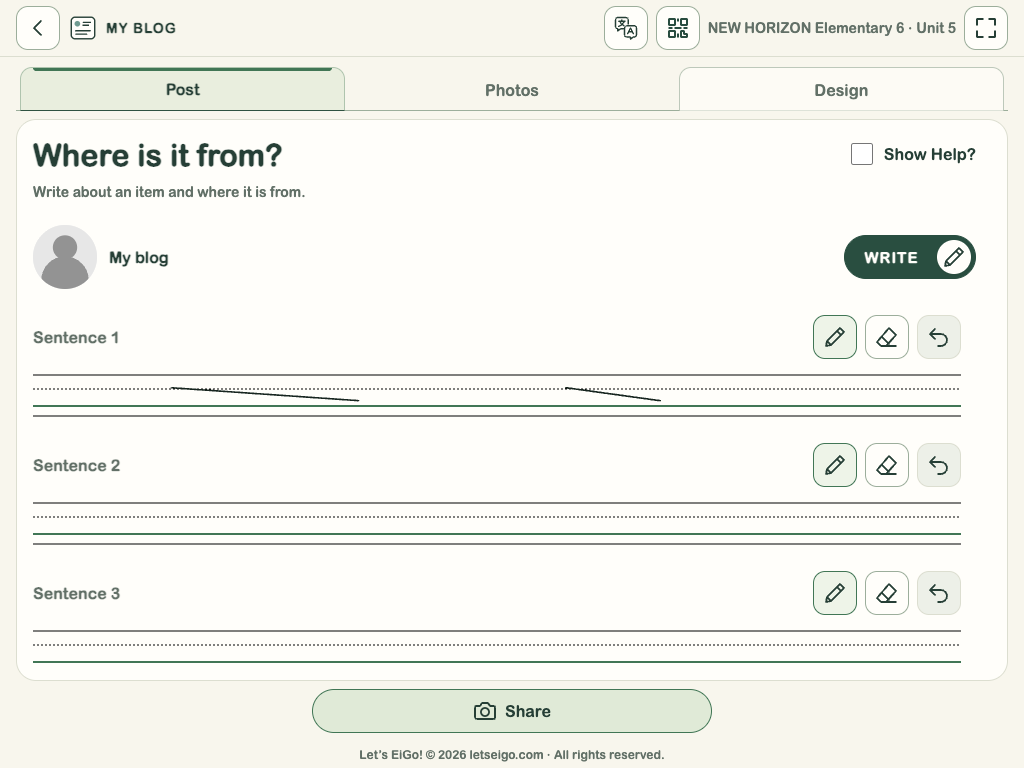
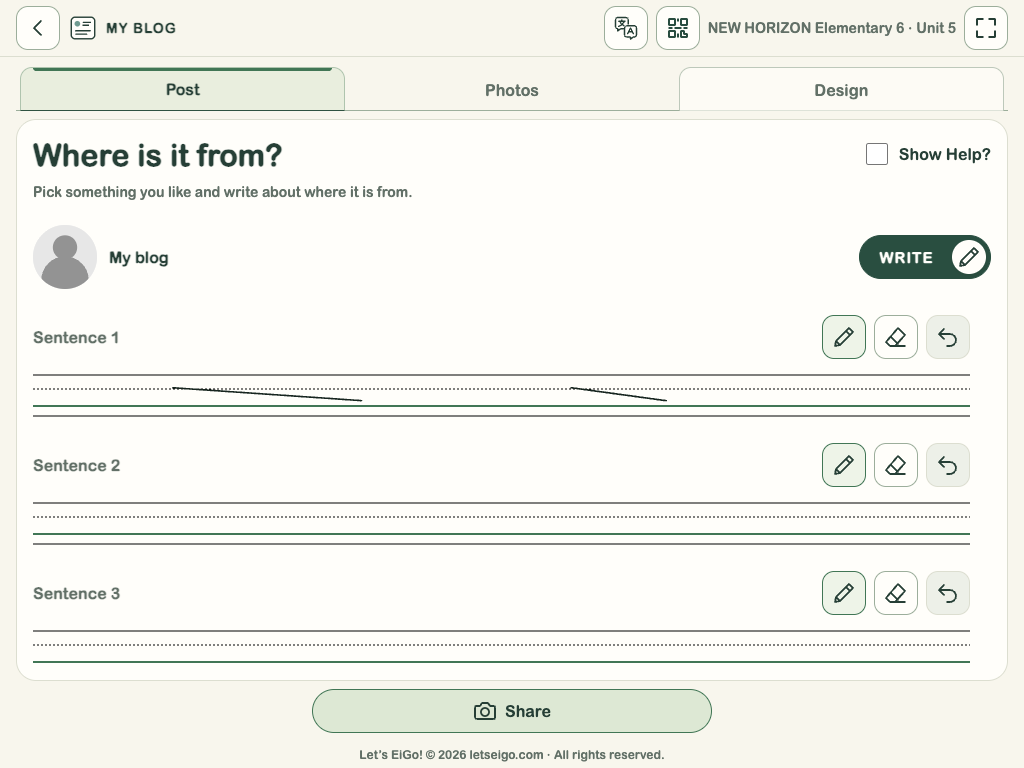
My Blog ES version WRITE mode update

diff --git a/myblog/journal/index.html b/myblog/journal/index.html
@@ -1,1 +1,1 @@
-<!doctype html><html lang="en"><head><meta charset="utf-8"><meta name="viewport" content="width=device-width,initial-scale=1"><title>My Blog Journal · Let’s EiGo!</title><link rel="icon" href="../NH1-5/icon.svg?v=45b85344694d"><link rel="apple-touch-icon" href="../../shared/icons/apple-touch-icon.png"><link rel="manifest" href="manifest.webmanifest"><link rel="stylesheet" href="../../shared/tokens.css?v=bb1399727204"><link rel="stylesheet" href="../../shared/blog-post.css?v=fa172151baad"><link rel="stylesheet" href="../../shared/controls.css?v=e8438a370acd"><link rel="stylesheet" href="styles.css?v=3fa481c05e5c"><script defer src="../../shared/i18n.js?v=dfcdbf06d2f6"></script><script defer src="../../shared/ui-ja.js?v=cfca4e1590d7"></script><script defer src="ui-ja.js?v=66c3bb4f994f"></script><script defer src="../../shared/autosave.js?v=87b0fd20cb77"></script><script defer src="../../apps/avatar/config.js?v=fab86059b694"></script><script defer src="../../apps/avatar/svg-parts.js?v=8105363c261c"></script><script defer src="../../apps/avatar/svg-art.js?v=36a3dbbb9d7c"></script><script defer src="../../shared/fullscreen.js?v=d346e549d687"></script><script defer src="../../shared/copyright.js?v=c854605170d6"></script><script defer src="../../shared/language-dialog.js?v=3104c801fc43"></script><script defer src="../../shared/local-links.js?v=0040b3f45d65"></script><script defer src="../../shared/blog-layout.js?v=19a691abb8c7"></script><script defer src="../../shared/blog-ink.js?v=be584c1a42bc"></script><script defer src="../../shared/blog-post.js?v=eab62f6c58dd"></script><script defer src="../../shared/blog-snapshot.js?v=f2931ecc996a"></script><script defer src="../NH6-5/config.js?v=9939a01664d5"></script><script defer src="../NH1-5/config.js?v=a46ce28265ba"></script><script defer src="../NH2-4/config.js?v=5845262db72d"></script><script defer src="catalog.js?v=1056bcd4d390"></script><script defer src="app.js?v=3f1731d49442"></script></head><body class="ah-blog journal"><header><div class="brand"><a class="icon-button back-button ah-button ah-button-icon" href="../../" aria-label="Back to textbook activities" data-i18n-aria-label="Back to textbook activities" title="Back to textbook activities" data-i18n-title="Back to textbook activities"><svg viewBox="0 0 24 24" aria-hidden="true"><path d="M15 5L8 12L15 19"/></svg></a><img class="site-logo" src="../NH1-5/icon.svg?v=45b85344694d" width="30" height="30" alt=""> <span lang="en">MY JOURNAL</span></div><div class="header-actions"><button id="language" class="icon-button ah-button ah-button-icon" type="button" aria-label="Language settings" data-i18n-aria-label="Language settings" title="Language settings" data-i18n-title="Language settings"><img src="../../shared/icons/language.svg?v=dffd4d6da96f" alt="" aria-hidden="true"></button><span class="edition" lang="en">My Blog collection</span><button id="fullscreen" class="fullscreen-button ah-button ah-button-icon" type="button" aria-label="Enter fullscreen" data-i18n-aria-label="Enter fullscreen" aria-pressed="false" title="Enter fullscreen" data-i18n-title="Enter fullscreen"><svg viewBox="0 0 24 24" width="24" height="24" fill="none" stroke="currentColor" stroke-width="1.8" stroke-linecap="round" stroke-linejoin="round" aria-hidden="true"><path class="expand-icon" d="M9 3H3V9M15 3H21V9M3 15V21H9M21 15V21H15"/><path class="collapse-icon" d="M3 9H9V3M15 3V9H21M9 21V15H3M21 15H15V21"/></svg></button></div><p id="fullscreen-notice" role="status" hidden></p></header><main class="journal-workspace"><div class="journal-intro"><div><h1 data-i18n="My journal">My journal</h1><p data-i18n="Your latest blog entries, together in one book.">Your latest blog entries, together in one book.</p></div><span class="prototype" data-i18n="Prototype">Prototype</span></div><div class="journal-columns"><nav class="journal-contents" aria-label="Journal contents" data-i18n-aria-label="Journal contents"><h2 data-i18n="Contents">Contents</h2><div id="journal-list"></div><p class="blog-hint" data-i18n="Saved in this browser only. Each page shows the latest draft for that lesson.">Saved in this browser only. Each page shows the latest draft for that lesson.</p></nav><section class="journal-reader" aria-labelledby="entry-heading"><div class="reader-heading"><div><p id="entry-unit"></p><h2 id="entry-heading" lang="en"></h2></div><a id="edit-entry" class="ah-button" data-i18n="Open activity">Open activity</a></div><div id="journal-page" tabindex="0" role="region" aria-label="Journal page" data-i18n-aria-label="Journal page"><p id="page-status" role="status"></p><div id="empty-page" hidden><img src="../../shared/icons/profile-default.svg?v=90333e0a71f1" alt=""><h3 data-i18n="Your story goes here">Your story goes here</h3><p data-i18n="This page is waiting for your blog post. Open the activity to get started.">This page is waiting for your blog post. Open the activity to get started.</p></div><img id="entry-image" hidden alt=""><details id="entry-text" hidden><summary data-i18n="Read as text">Read as text</summary><div lang="en" id="entry-paragraphs"></div></details></div><div class="journal-pagination"><button id="previous-entry" class="ah-button" data-i18n="Previous">Previous</button><span id="page-number" aria-live="polite"></span><button id="next-entry" class="ah-button" data-i18n="Next">Next</button></div></section></div></main><dialog class="ah-dialog" id="language-dialog" aria-labelledby="language-title"><div class="dialog-heading"><h2 id="language-title"><span data-i18n="Language">Language</span></h2><button class="dialog-close icon-button ah-button ah-button-icon" type="button" aria-label="Close language settings" data-i18n-aria-label="Close language settings">×</button></div><div class="language-options"><button type="button" class="ah-button" data-language="en" lang="en" aria-pressed="true">English</button><button type="button" class="ah-button" data-language="ja" lang="ja" aria-pressed="false">日本語</button></div><p data-i18n="English practice words and sentences stay in English.">English practice words and sentences stay in English.</p></dialog></body></html>
+<!doctype html><html lang="en"><head><meta charset="utf-8"><meta name="viewport" content="width=device-width,initial-scale=1"><title>My Blog Journal · Let’s EiGo!</title><link rel="icon" href="../NH1-5/icon.svg?v=45b85344694d"><link rel="apple-touch-icon" href="../../shared/icons/apple-touch-icon.png"><link rel="manifest" href="manifest.webmanifest"><link rel="stylesheet" href="../../shared/tokens.css?v=bb1399727204"><link rel="stylesheet" href="../../shared/blog-post.css?v=fa172151baad"><link rel="stylesheet" href="../../shared/controls.css?v=e8438a370acd"><link rel="stylesheet" href="styles.css?v=3fa481c05e5c"><script defer src="../../shared/i18n.js?v=dfcdbf06d2f6"></script><script defer src="../../shared/ui-ja.js?v=cfca4e1590d7"></script><script defer src="ui-ja.js?v=66c3bb4f994f"></script><script defer src="../../shared/autosave.js?v=87b0fd20cb77"></script><script defer src="../../apps/avatar/config.js?v=fab86059b694"></script><script defer src="../../apps/avatar/svg-parts.js?v=8105363c261c"></script><script defer src="../../apps/avatar/svg-art.js?v=36a3dbbb9d7c"></script><script defer src="../../shared/fullscreen.js?v=d346e549d687"></script><script defer src="../../shared/copyright.js?v=c854605170d6"></script><script defer src="../../shared/language-dialog.js?v=3104c801fc43"></script><script defer src="../../shared/local-links.js?v=0040b3f45d65"></script><script defer src="../../shared/blog-layout.js?v=19a691abb8c7"></script><script defer src="../../shared/blog-ink.js?v=cf3337f99a6f"></script><script defer src="../../shared/blog-post.js?v=eab62f6c58dd"></script><script defer src="../../shared/blog-snapshot.js?v=f2931ecc996a"></script><script defer src="../NH6-5/config.js?v=9939a01664d5"></script><script defer src="../NH1-5/config.js?v=a46ce28265ba"></script><script defer src="../NH2-4/config.js?v=5845262db72d"></script><script defer src="catalog.js?v=1056bcd4d390"></script><script defer src="app.js?v=3f1731d49442"></script></head><body class="ah-blog journal"><header><div class="brand"><a class="icon-button back-button ah-button ah-button-icon" href="../../" aria-label="Back to textbook activities" data-i18n-aria-label="Back to textbook activities" title="Back to textbook activities" data-i18n-title="Back to textbook activities"><svg viewBox="0 0 24 24" aria-hidden="true"><path d="M15 5L8 12L15 19"/></svg></a><img class="site-logo" src="../NH1-5/icon.svg?v=45b85344694d" width="30" height="30" alt=""> <span lang="en">MY JOURNAL</span></div><div class="header-actions"><button id="language" class="icon-button ah-button ah-button-icon" type="button" aria-label="Language settings" data-i18n-aria-label="Language settings" title="Language settings" data-i18n-title="Language settings"><img src="../../shared/icons/language.svg?v=dffd4d6da96f" alt="" aria-hidden="true"></button><span class="edition" lang="en">My Blog collection</span><button id="fullscreen" class="fullscreen-button ah-button ah-button-icon" type="button" aria-label="Enter fullscreen" data-i18n-aria-label="Enter fullscreen" aria-pressed="false" title="Enter fullscreen" data-i18n-title="Enter fullscreen"><svg viewBox="0 0 24 24" width="24" height="24" fill="none" stroke="currentColor" stroke-width="1.8" stroke-linecap="round" stroke-linejoin="round" aria-hidden="true"><path class="expand-icon" d="M9 3H3V9M15 3H21V9M3 15V21H9M21 15V21H15"/><path class="collapse-icon" d="M3 9H9V3M15 3V9H21M9 21V15H3M21 15H15V21"/></svg></button></div><p id="fullscreen-notice" role="status" hidden></p></header><main class="journal-workspace"><div class="journal-intro"><div><h1 data-i18n="My journal">My journal</h1><p data-i18n="Your latest blog entries, together in one book.">Your latest blog entries, together in one book.</p></div><span class="prototype" data-i18n="Prototype">Prototype</span></div><div class="journal-columns"><nav class="journal-contents" aria-label="Journal contents" data-i18n-aria-label="Journal contents"><h2 data-i18n="Contents">Contents</h2><div id="journal-list"></div><p class="blog-hint" data-i18n="Saved in this browser only. Each page shows the latest draft for that lesson.">Saved in this browser only. Each page shows the latest draft for that lesson.</p></nav><section class="journal-reader" aria-labelledby="entry-heading"><div class="reader-heading"><div><p id="entry-unit"></p><h2 id="entry-heading" lang="en"></h2></div><a id="edit-entry" class="ah-button" data-i18n="Open activity">Open activity</a></div><div id="journal-page" tabindex="0" role="region" aria-label="Journal page" data-i18n-aria-label="Journal page"><p id="page-status" role="status"></p><div id="empty-page" hidden><img src="../../shared/icons/profile-default.svg?v=90333e0a71f1" alt=""><h3 data-i18n="Your story goes here">Your story goes here</h3><p data-i18n="This page is waiting for your blog post. Open the activity to get started.">This page is waiting for your blog post. Open the activity to get started.</p></div><img id="entry-image" hidden alt=""><details id="entry-text" hidden><summary data-i18n="Read as text">Read as text</summary><div lang="en" id="entry-paragraphs"></div></details></div><div class="journal-pagination"><button id="previous-entry" class="ah-button" data-i18n="Previous">Previous</button><span id="page-number" aria-live="polite"></span><button id="next-entry" class="ah-button" data-i18n="Next">Next</button></div></section></div></main><dialog class="ah-dialog" id="language-dialog" aria-labelledby="language-title"><div class="dialog-heading"><h2 id="language-title"><span data-i18n="Language">Language</span></h2><button class="dialog-close icon-button ah-button ah-button-icon" type="button" aria-label="Close language settings" data-i18n-aria-label="Close language settings">×</button></div><div class="language-options"><button type="button" class="ah-button" data-language="en" lang="en" aria-pressed="true">English</button><button type="button" class="ah-button" data-language="ja" lang="ja" aria-pressed="false">日本語</button></div><p data-i18n="English practice words and sentences stay in English.">English practice words and sentences stay in English.</p></dialog></body></html>

diff --git a/myblog/NH6-5/index.html b/myblog/NH6-5/index.html
@@ -1,4 +1,4 @@
-<!doctype html><html lang="en"><head><meta charset="utf-8"><meta name="viewport" content="width=device-width,initial-scale=1"><title>My Blog: Where is it from? · Let’s EiGo!</title><link rel="icon" href="icon.svg?v=45b85344694d"><link rel="apple-touch-icon" href="../../shared/icons/apple-touch-icon.png"><link rel="manifest" href="manifest.webmanifest"><link rel="stylesheet" href="../../shared/tokens.css?v=bb1399727204"><link rel="stylesheet" href="../../shared/blog-post.css?v=fa172151baad"><link rel="stylesheet" href="../../shared/controls.css?v=e8438a370acd"><link rel="stylesheet" href="../../shared/blog-design.css?v=d6cd49c27a55"><link rel="stylesheet" href="../../shared/page-qr.css?v=a68fbbb331bb"><script defer src="../../shared/i18n.js?v=dfcdbf06d2f6"></script><script defer src="../../shared/ui-ja.js?v=cfca4e1590d7"></script><script defer src="ui-ja.js?v=6499b134f3b4"></script><script defer src="../../shared/autosave.js?v=87b0fd20cb77"></script><script defer src="../../apps/avatar/config.js?v=fab86059b694"></script><script defer src="../../apps/avatar/svg-parts.js?v=8105363c261c"></script><script defer src="../../apps/avatar/svg-art.js?v=36a3dbbb9d7c"></script><script defer src="../../shared/fullscreen.js?v=d346e549d687"></script><script defer src="../../shared/copyright.js?v=c854605170d6"></script><script defer src="../../shared/language-dialog.js?v=3104c801fc43"></script><script defer src="../../shared/local-links.js?v=0040b3f45d65"></script><script defer src="../../shared/qr.js?v=0fca292feadc"></script><script defer src="../../shared/builder-photo.js?v=e8111d64f6e3"></script><script defer src="../../shared/blog-snapshot.js?v=f2931ecc996a"></script><script defer src="../../shared/blog-layout.js?v=19a691abb8c7"></script><script defer src="../../shared/blog-design.js?v=69b0278f5a11"></script><script defer src="../../shared/blog-ink.js?v=be584c1a42bc"></script><script defer src="../../shared/blog-post.js?v=eab62f6c58dd"></script><script defer src="config.js?v=9939a01664d5"></script><script defer src="app.js?v=21fe25c4a731"></script><script defer src="../../shared/page-qr.js?v=c9dcd70ca280" data-app-path="/myblog/NH6-5/"></script></head><body class="ah-blog blog-guided blog-three"><header><div class="brand"><a class="icon-button back-button ah-button ah-button-icon" href="../../#new-horizon-6" aria-label="Back to textbook activities" data-i18n-aria-label="Back to textbook activities" title="Back to textbook activities" data-i18n-title="Back to textbook activities"><svg viewBox="0 0 24 24" aria-hidden="true"><path d="M15 5L8 12L15 19"/></svg></a><img class="site-logo" src="icon.svg?v=45b85344694d" width="30" height="30" alt=""> <span lang="en">MY BLOG</span></div><div class="header-actions"><button id="language" class="icon-button ah-button ah-button-icon" type="button" aria-label="Language settings" data-i18n-aria-label="Language settings" title="Language settings" data-i18n-title="Language settings"><img src="../../shared/icons/language.svg?v=dffd4d6da96f" alt="" aria-hidden="true"></button><span class="edition" lang="en">NEW HORIZON Elementary 6 · Unit 5</span><button id="fullscreen" class="fullscreen-button ah-button ah-button-icon" type="button" aria-label="Enter fullscreen" data-i18n-aria-label="Enter fullscreen" aria-pressed="false" title="Enter fullscreen" data-i18n-title="Enter fullscreen"><svg viewBox="0 0 24 24" width="24" height="24" fill="none" stroke="currentColor" stroke-width="1.8" stroke-linecap="round" stroke-linejoin="round" aria-hidden="true"><path class="expand-icon" d="M9 3H3V9M15 3H21V9M3 15V21H9M21 15V21H15"/><path class="collapse-icon" d="M3 9H9V3M15 3V9H21M9 21V15H3M21 15H15V21"/></svg></button></div><p id="fullscreen-notice" role="status" hidden></p></header><main class="blog-workspace" data-view="preview">
+<!doctype html><html lang="en"><head><meta charset="utf-8"><meta name="viewport" content="width=device-width,initial-scale=1"><title>My Blog: Where is it from? · Let’s EiGo!</title><link rel="icon" href="icon.svg?v=45b85344694d"><link rel="apple-touch-icon" href="../../shared/icons/apple-touch-icon.png"><link rel="manifest" href="manifest.webmanifest"><link rel="stylesheet" href="../../shared/tokens.css?v=bb1399727204"><link rel="stylesheet" href="../../shared/blog-post.css?v=fa172151baad"><link rel="stylesheet" href="../../shared/controls.css?v=e8438a370acd"><link rel="stylesheet" href="../../shared/blog-design.css?v=e907dd65e09c"><link rel="stylesheet" href="../../shared/page-qr.css?v=a68fbbb331bb"><script defer src="../../shared/i18n.js?v=dfcdbf06d2f6"></script><script defer src="../../shared/ui-ja.js?v=cfca4e1590d7"></script><script defer src="ui-ja.js?v=6499b134f3b4"></script><script defer src="../../shared/autosave.js?v=87b0fd20cb77"></script><script defer src="../../apps/avatar/config.js?v=fab86059b694"></script><script defer src="../../apps/avatar/svg-parts.js?v=8105363c261c"></script><script defer src="../../apps/avatar/svg-art.js?v=36a3dbbb9d7c"></script><script defer src="../../shared/fullscreen.js?v=d346e549d687"></script><script defer src="../../shared/copyright.js?v=c854605170d6"></script><script defer src="../../shared/language-dialog.js?v=3104c801fc43"></script><script defer src="../../shared/local-links.js?v=0040b3f45d65"></script><script defer src="../../shared/qr.js?v=0fca292feadc"></script><script defer src="../../shared/builder-photo.js?v=e8111d64f6e3"></script><script defer src="../../shared/blog-snapshot.js?v=f2931ecc996a"></script><script defer src="../../shared/blog-layout.js?v=19a691abb8c7"></script><script defer src="../../shared/blog-design.js?v=69b0278f5a11"></script><script defer src="../../shared/blog-ink.js?v=cf3337f99a6f"></script><script defer src="../../shared/blog-post.js?v=eab62f6c58dd"></script><script defer src="config.js?v=9939a01664d5"></script><script defer src="app.js?v=21fe25c4a731"></script><script defer src="../../shared/page-qr.js?v=c9dcd70ca280" data-app-path="/myblog/NH6-5/"></script></head><body class="ah-blog blog-guided blog-three"><header><div class="brand"><a class="icon-button back-button ah-button ah-button-icon" href="../../#new-horizon-6" aria-label="Back to textbook activities" data-i18n-aria-label="Back to textbook activities" title="Back to textbook activities" data-i18n-title="Back to textbook activities"><svg viewBox="0 0 24 24" aria-hidden="true"><path d="M15 5L8 12L15 19"/></svg></a><img class="site-logo" src="icon.svg?v=45b85344694d" width="30" height="30" alt=""> <span lang="en">MY BLOG</span></div><div class="header-actions"><button id="language" class="icon-button ah-button ah-button-icon" type="button" aria-label="Language settings" data-i18n-aria-label="Language settings" title="Language settings" data-i18n-title="Language settings"><img src="../../shared/icons/language.svg?v=dffd4d6da96f" alt="" aria-hidden="true"></button><span class="edition" lang="en">NEW HORIZON Elementary 6 · Unit 5</span><button id="fullscreen" class="fullscreen-button ah-button ah-button-icon" type="button" aria-label="Enter fullscreen" data-i18n-aria-label="Enter fullscreen" aria-pressed="false" title="Enter fullscreen" data-i18n-title="Enter fullscreen"><svg viewBox="0 0 24 24" width="24" height="24" fill="none" stroke="currentColor" stroke-width="1.8" stroke-linecap="round" stroke-linejoin="round" aria-hidden="true"><path class="expand-icon" d="M9 3H3V9M15 3H21V9M3 15V21H9M21 15V21H15"/><path class="collapse-icon" d="M3 9H9V3M15 3V9H21M9 21V15H3M21 15H15V21"/></svg></button></div><p id="fullscreen-notice" role="status" hidden></p></header><main class="blog-workspace" data-view="preview">
 <nav class="blog-switch" role="tablist" aria-label="Post sections" data-i18n-aria-label="Post sections">
 <button id="tab-write" class="ah-button" role="tab" aria-controls="blog-preview" data-blog-view="preview" aria-selected="true" data-i18n="Post">Post</button>
 <button id="tab-photos" class="ah-button" role="tab" aria-controls="blog-editor" data-blog-view="edit" aria-selected="false" tabindex="-1" data-i18n="Photos">Photos</button>

diff --git a/myblog/NH2-4/index.html b/myblog/NH2-4/index.html
@@ -1,4 +1,4 @@
-<!doctype html><html lang="en"><head><meta charset="utf-8"><meta name="viewport" content="width=device-width,initial-scale=1"><title>My Blog: Welcome to Japan · Let’s EiGo!</title><link rel="icon" href="icon.svg?v=45b85344694d"><link rel="apple-touch-icon" href="../../shared/icons/apple-touch-icon.png"><link rel="manifest" href="manifest.webmanifest"><link rel="stylesheet" href="../../shared/tokens.css?v=bb1399727204"><link rel="stylesheet" href="../../shared/blog-post.css?v=fa172151baad"><link rel="stylesheet" href="../../shared/controls.css?v=e8438a370acd"><link rel="stylesheet" href="../../shared/blog-design.css?v=d6cd49c27a55"><link rel="stylesheet" href="../../shared/page-qr.css?v=a68fbbb331bb"><script defer src="../../shared/i18n.js?v=dfcdbf06d2f6"></script><script defer src="../../shared/ui-ja.js?v=cfca4e1590d7"></script><script defer src="ui-ja.js?v=6c9d4c0fd00d"></script><script defer src="../../shared/autosave.js?v=87b0fd20cb77"></script><script defer src="../../apps/avatar/config.js?v=fab86059b694"></script><script defer src="../../apps/avatar/svg-parts.js?v=8105363c261c"></script><script defer src="../../apps/avatar/svg-art.js?v=36a3dbbb9d7c"></script><script defer src="../../shared/fullscreen.js?v=d346e549d687"></script><script defer src="../../shared/copyright.js?v=c854605170d6"></script><script defer src="../../shared/language-dialog.js?v=3104c801fc43"></script><script defer src="../../shared/local-links.js?v=0040b3f45d65"></script><script defer src="../../shared/qr.js?v=0fca292feadc"></script><script defer src="../../shared/builder-photo.js?v=e8111d64f6e3"></script><script defer src="../../shared/blog-snapshot.js?v=f2931ecc996a"></script><script defer src="../../shared/blog-layout.js?v=19a691abb8c7"></script><script defer src="../../shared/blog-design.js?v=69b0278f5a11"></script><script defer src="../../shared/blog-ink.js?v=be584c1a42bc"></script><script defer src="../../shared/blog-post.js?v=eab62f6c58dd"></script><script defer src="config.js?v=5845262db72d"></script><script defer src="app.js?v=7d0fc94cad8e"></script><script defer src="../../shared/page-qr.js?v=c9dcd70ca280" data-app-path="/myblog/NH2-4/"></script></head><body class="ah-blog blog-free blog-three"><header><div class="brand"><a class="icon-button back-button ah-button ah-button-icon" href="../../#new-horizon-2" aria-label="Back to textbook activities" data-i18n-aria-label="Back to textbook activities" title="Back to textbook activities" data-i18n-title="Back to textbook activities"><svg viewBox="0 0 24 24" aria-hidden="true"><path d="M15 5L8 12L15 19"/></svg></a><img class="site-logo" src="icon.svg?v=45b85344694d" width="30" height="30" alt=""> <span lang="en">MY BLOG</span></div><div class="header-actions"><button id="language" class="icon-button ah-button ah-button-icon" type="button" aria-label="Language settings" data-i18n-aria-label="Language settings" title="Language settings" data-i18n-title="Language settings"><img src="../../shared/icons/language.svg?v=dffd4d6da96f" alt="" aria-hidden="true"></button><span class="edition" lang="en">NEW HORIZON 2 · Unit 4</span><button id="fullscreen" class="fullscreen-button ah-button ah-button-icon" type="button" aria-label="Enter fullscreen" data-i18n-aria-label="Enter fullscreen" aria-pressed="false" title="Enter fullscreen" data-i18n-title="Enter fullscreen"><svg viewBox="0 0 24 24" width="24" height="24" fill="none" stroke="currentColor" stroke-width="1.8" stroke-linecap="round" stroke-linejoin="round" aria-hidden="true"><path class="expand-icon" d="M9 3H3V9M15 3H21V9M3 15V21H9M21 15V21H15"/><path class="collapse-icon" d="M3 9H9V3M15 3V9H21M9 21V15H3M21 15H15V21"/></svg></button></div><p id="fullscreen-notice" role="status" hidden></p></header><main class="blog-workspace" data-view="preview">
+<!doctype html><html lang="en"><head><meta charset="utf-8"><meta name="viewport" content="width=device-width,initial-scale=1"><title>My Blog: Welcome to Japan · Let’s EiGo!</title><link rel="icon" href="icon.svg?v=45b85344694d"><link rel="apple-touch-icon" href="../../shared/icons/apple-touch-icon.png"><link rel="manifest" href="manifest.webmanifest"><link rel="stylesheet" href="../../shared/tokens.css?v=bb1399727204"><link rel="stylesheet" href="../../shared/blog-post.css?v=fa172151baad"><link rel="stylesheet" href="../../shared/controls.css?v=e8438a370acd"><link rel="stylesheet" href="../../shared/blog-design.css?v=e907dd65e09c"><link rel="stylesheet" href="../../shared/page-qr.css?v=a68fbbb331bb"><script defer src="../../shared/i18n.js?v=dfcdbf06d2f6"></script><script defer src="../../shared/ui-ja.js?v=cfca4e1590d7"></script><script defer src="ui-ja.js?v=6c9d4c0fd00d"></script><script defer src="../../shared/autosave.js?v=87b0fd20cb77"></script><script defer src="../../apps/avatar/config.js?v=fab86059b694"></script><script defer src="../../apps/avatar/svg-parts.js?v=8105363c261c"></script><script defer src="../../apps/avatar/svg-art.js?v=36a3dbbb9d7c"></script><script defer src="../../shared/fullscreen.js?v=d346e549d687"></script><script defer src="../../shared/copyright.js?v=c854605170d6"></script><script defer src="../../shared/language-dialog.js?v=3104c801fc43"></script><script defer src="../../shared/local-links.js?v=0040b3f45d65"></script><script defer src="../../shared/qr.js?v=0fca292feadc"></script><script defer src="../../shared/builder-photo.js?v=e8111d64f6e3"></script><script defer src="../../shared/blog-snapshot.js?v=f2931ecc996a"></script><script defer src="../../shared/blog-layout.js?v=19a691abb8c7"></script><script defer src="../../shared/blog-design.js?v=69b0278f5a11"></script><script defer src="../../shared/blog-ink.js?v=cf3337f99a6f"></script><script defer src="../../shared/blog-post.js?v=eab62f6c58dd"></script><script defer src="config.js?v=5845262db72d"></script><script defer src="app.js?v=7d0fc94cad8e"></script><script defer src="../../shared/page-qr.js?v=c9dcd70ca280" data-app-path="/myblog/NH2-4/"></script></head><body class="ah-blog blog-free blog-three"><header><div class="brand"><a class="icon-button back-button ah-button ah-button-icon" href="../../#new-horizon-2" aria-label="Back to textbook activities" data-i18n-aria-label="Back to textbook activities" title="Back to textbook activities" data-i18n-title="Back to textbook activities"><svg viewBox="0 0 24 24" aria-hidden="true"><path d="M15 5L8 12L15 19"/></svg></a><img class="site-logo" src="icon.svg?v=45b85344694d" width="30" height="30" alt=""> <span lang="en">MY BLOG</span></div><div class="header-actions"><button id="language" class="icon-button ah-button ah-button-icon" type="button" aria-label="Language settings" data-i18n-aria-label="Language settings" title="Language settings" data-i18n-title="Language settings"><img src="../../shared/icons/language.svg?v=dffd4d6da96f" alt="" aria-hidden="true"></button><span class="edition" lang="en">NEW HORIZON 2 · Unit 4</span><button id="fullscreen" class="fullscreen-button ah-button ah-button-icon" type="button" aria-label="Enter fullscreen" data-i18n-aria-label="Enter fullscreen" aria-pressed="false" title="Enter fullscreen" data-i18n-title="Enter fullscreen"><svg viewBox="0 0 24 24" width="24" height="24" fill="none" stroke="currentColor" stroke-width="1.8" stroke-linecap="round" stroke-linejoin="round" aria-hidden="true"><path class="expand-icon" d="M9 3H3V9M15 3H21V9M3 15V21H9M21 15V21H15"/><path class="collapse-icon" d="M3 9H9V3M15 3V9H21M9 21V15H3M21 15H15V21"/></svg></button></div><p id="fullscreen-notice" role="status" hidden></p></header><main class="blog-workspace" data-view="preview">
 <nav class="blog-switch" role="tablist" aria-label="Post sections" data-i18n-aria-label="Post sections">
 <button id="tab-write" class="ah-button" role="tab" aria-controls="blog-preview" data-blog-view="preview" aria-selected="true" data-i18n="Write">Write</button>
 <button id="tab-photos" class="ah-button" role="tab" aria-controls="blog-editor" data-blog-view="edit" aria-selected="false" tabindex="-1" data-i18n="Photos">Photos</button>

diff --git a/myblog/NH1-5/index.html b/myblog/NH1-5/index.html
@@ -1,4 +1,4 @@
-<!doctype html><html lang="en"><head><meta charset="utf-8"><meta name="viewport" content="width=device-width,initial-scale=1"><title>My Blog: A Place I Like · Let’s EiGo!</title><link rel="icon" href="icon.svg?v=45b85344694d"><link rel="apple-touch-icon" href="../../shared/icons/apple-touch-icon.png"><link rel="manifest" href="manifest.webmanifest"><link rel="stylesheet" href="../../shared/tokens.css?v=bb1399727204"><link rel="stylesheet" href="../../shared/blog-post.css?v=fa172151baad"><link rel="stylesheet" href="../../shared/controls.css?v=e8438a370acd"><link rel="stylesheet" href="../../shared/blog-design.css?v=d6cd49c27a55"><link rel="stylesheet" href="../../shared/page-qr.css?v=a68fbbb331bb"><script defer src="../../shared/i18n.js?v=dfcdbf06d2f6"></script><script defer src="../../shared/ui-ja.js?v=cfca4e1590d7"></script><script defer src="ui-ja.js?v=70bd39a5efeb"></script><script defer src="../../shared/autosave.js?v=87b0fd20cb77"></script><script defer src="../../apps/avatar/config.js?v=fab86059b694"></script><script defer src="../../apps/avatar/svg-parts.js?v=8105363c261c"></script><script defer src="../../apps/avatar/svg-art.js?v=36a3dbbb9d7c"></script><script defer src="../../shared/fullscreen.js?v=d346e549d687"></script><script defer src="../../shared/copyright.js?v=c854605170d6"></script><script defer src="../../shared/language-dialog.js?v=3104c801fc43"></script><script defer src="../../shared/local-links.js?v=0040b3f45d65"></script><script defer src="../../shared/qr.js?v=0fca292feadc"></script><script defer src="../../shared/builder-photo.js?v=e8111d64f6e3"></script><script defer src="../../shared/blog-snapshot.js?v=f2931ecc996a"></script><script defer src="../../shared/blog-layout.js?v=19a691abb8c7"></script><script defer src="../../shared/blog-design.js?v=69b0278f5a11"></script><script defer src="../../shared/blog-ink.js?v=be584c1a42bc"></script><script defer src="../../shared/blog-post.js?v=eab62f6c58dd"></script><script defer src="config.js?v=a46ce28265ba"></script><script defer src="app.js?v=22eef5d3d273"></script><script defer src="../../shared/page-qr.js?v=c9dcd70ca280" data-app-path="/myblog/NH1-5/"></script></head><body class="ah-blog blog-free blog-three"><header><div class="brand"><a class="icon-button back-button ah-button ah-button-icon" href="../../#new-horizon-1" aria-label="Back to textbook activities" data-i18n-aria-label="Back to textbook activities" title="Back to textbook activities" data-i18n-title="Back to textbook activities"><svg viewBox="0 0 24 24" aria-hidden="true"><path d="M15 5L8 12L15 19"/></svg></a><img class="site-logo" src="icon.svg?v=45b85344694d" width="30" height="30" alt=""> <span lang="en">MY BLOG</span></div><div class="header-actions"><button id="language" class="icon-button ah-button ah-button-icon" type="button" aria-label="Language settings" data-i18n-aria-label="Language settings" title="Language settings" data-i18n-title="Language settings"><img src="../../shared/icons/language.svg?v=dffd4d6da96f" alt="" aria-hidden="true"></button><span class="edition" lang="en">NEW HORIZON 1 · Unit 5</span><button id="fullscreen" class="fullscreen-button ah-button ah-button-icon" type="button" aria-label="Enter fullscreen" data-i18n-aria-label="Enter fullscreen" aria-pressed="false" title="Enter fullscreen" data-i18n-title="Enter fullscreen"><svg viewBox="0 0 24 24" width="24" height="24" fill="none" stroke="currentColor" stroke-width="1.8" stroke-linecap="round" stroke-linejoin="round" aria-hidden="true"><path class="expand-icon" d="M9 3H3V9M15 3H21V9M3 15V21H9M21 15V21H15"/><path class="collapse-icon" d="M3 9H9V3M15 3V9H21M9 21V15H3M21 15H15V21"/></svg></button></div><p id="fullscreen-notice" role="status" hidden></p></header><main class="blog-workspace" data-view="preview">
+<!doctype html><html lang="en"><head><meta charset="utf-8"><meta name="viewport" content="width=device-width,initial-scale=1"><title>My Blog: A Place I Like · Let’s EiGo!</title><link rel="icon" href="icon.svg?v=45b85344694d"><link rel="apple-touch-icon" href="../../shared/icons/apple-touch-icon.png"><link rel="manifest" href="manifest.webmanifest"><link rel="stylesheet" href="../../shared/tokens.css?v=bb1399727204"><link rel="stylesheet" href="../../shared/blog-post.css?v=fa172151baad"><link rel="stylesheet" href="../../shared/controls.css?v=e8438a370acd"><link rel="stylesheet" href="../../shared/blog-design.css?v=e907dd65e09c"><link rel="stylesheet" href="../../shared/page-qr.css?v=a68fbbb331bb"><script defer src="../../shared/i18n.js?v=dfcdbf06d2f6"></script><script defer src="../../shared/ui-ja.js?v=cfca4e1590d7"></script><script defer src="ui-ja.js?v=70bd39a5efeb"></script><script defer src="../../shared/autosave.js?v=87b0fd20cb77"></script><script defer src="../../apps/avatar/config.js?v=fab86059b694"></script><script defer src="../../apps/avatar/svg-parts.js?v=8105363c261c"></script><script defer src="../../apps/avatar/svg-art.js?v=36a3dbbb9d7c"></script><script defer src="../../shared/fullscreen.js?v=d346e549d687"></script><script defer src="../../shared/copyright.js?v=c854605170d6"></script><script defer src="../../shared/language-dialog.js?v=3104c801fc43"></script><script defer src="../../shared/local-links.js?v=0040b3f45d65"></script><script defer src="../../shared/qr.js?v=0fca292feadc"></script><script defer src="../../shared/builder-photo.js?v=e8111d64f6e3"></script><script defer src="../../shared/blog-snapshot.js?v=f2931ecc996a"></script><script defer src="../../shared/blog-layout.js?v=19a691abb8c7"></script><script defer src="../../shared/blog-design.js?v=69b0278f5a11"></script><script defer src="../../shared/blog-ink.js?v=cf3337f99a6f"></script><script defer src="../../shared/blog-post.js?v=eab62f6c58dd"></script><script defer src="config.js?v=a46ce28265ba"></script><script defer src="app.js?v=22eef5d3d273"></script><script defer src="../../shared/page-qr.js?v=c9dcd70ca280" data-app-path="/myblog/NH1-5/"></script></head><body class="ah-blog blog-free blog-three"><header><div class="brand"><a class="icon-button back-button ah-button ah-button-icon" href="../../#new-horizon-1" aria-label="Back to textbook activities" data-i18n-aria-label="Back to textbook activities" title="Back to textbook activities" data-i18n-title="Back to textbook activities"><svg viewBox="0 0 24 24" aria-hidden="true"><path d="M15 5L8 12L15 19"/></svg></a><img class="site-logo" src="icon.svg?v=45b85344694d" width="30" height="30" alt=""> <span lang="en">MY BLOG</span></div><div class="header-actions"><button id="language" class="icon-button ah-button ah-button-icon" type="button" aria-label="Language settings" data-i18n-aria-label="Language settings" title="Language settings" data-i18n-title="Language settings"><img src="../../shared/icons/language.svg?v=dffd4d6da96f" alt="" aria-hidden="true"></button><span class="edition" lang="en">NEW HORIZON 1 · Unit 5</span><button id="fullscreen" class="fullscreen-button ah-button ah-button-icon" type="button" aria-label="Enter fullscreen" data-i18n-aria-label="Enter fullscreen" aria-pressed="false" title="Enter fullscreen" data-i18n-title="Enter fullscreen"><svg viewBox="0 0 24 24" width="24" height="24" fill="none" stroke="currentColor" stroke-width="1.8" stroke-linecap="round" stroke-linejoin="round" aria-hidden="true"><path class="expand-icon" d="M9 3H3V9M15 3H21V9M3 15V21H9M21 15V21H15"/><path class="collapse-icon" d="M3 9H9V3M15 3V9H21M9 21V15H3M21 15H15V21"/></svg></button></div><p id="fullscreen-notice" role="status" hidden></p></header><main class="blog-workspace" data-view="preview">
 <nav class="blog-switch" role="tablist" aria-label="Post sections" data-i18n-aria-label="Post sections">
 <button id="tab-write" class="ah-button" role="tab" aria-controls="blog-preview" data-blog-view="preview" aria-selected="true" data-i18n="Write">Write</button>
 <button id="tab-photos" class="ah-button" role="tab" aria-controls="blog-editor" data-blog-view="edit" aria-selected="false" tabindex="-1" data-i18n="Photos">Photos</button>

diff --git a/shared/blog-ink.js b/shared/blog-ink.js
@@ -5,7 +5,9 @@
  function strokes(ctx,lines){ctx.strokeStyle='#17251f';ctx.fillStyle='#17251f';ctx.lineWidth=3;ctx.lineCap='round';ctx.lineJoin='round';for(const points of lines){ctx.beginPath();if(points.length===1){ctx.arc(points[0][0],points[0][1],1.5,0,Math.PI*2);ctx.fill();}else{points.forEach(([x,y],i)=>i?ctx.lineTo(x,y):ctx.moveTo(x,y));ctx.stroke();}}}
  function paint(ctx,lines,x,y,w,h){const scale=Math.min(w/width,h/height);ctx.save();ctx.translate(x,y+(h-height*scale)/2);ctx.scale(scale,scale);strokes(ctx,lines);ctx.restore();}
  function mount({host,getState,save,config}){
-  const t=s=>window.ActivityHubI18n.t(s),pads=[];let active=null,eraser=false,parts=1;
+  const t=s=>window.ActivityHubI18n.t(s),pads=[];let active=null,eraser=false,parts=1,saveTimer=null,dirty=false;
+  function scheduleSave(){dirty=true;clearTimeout(saveTimer);saveTimer=setTimeout(flushSave,2000);}
+  function flushSave(){clearTimeout(saveTimer);saveTimer=null;if(dirty&&!active){dirty=false;save();}}
   const notice=document.createElement('p');notice.className='blog-hint';notice.setAttribute('role','status');
   const toolButtons=[];
   function iconButton(label,icon){const button=document.createElement('button');button.type='button';button.className='ah-button ah-button-icon';button.dataset.label=label;const image=document.createElement('img');image.src='../../shared/icons/'+icon+'.svg';image.alt='';image.setAttribute('aria-hidden','true');button.append(image);return button;}
@@ -31,21 +33,22 @@
   function remember(pad){pad.history.push(structuredClone(getState().ink[pad.index]));if(pad.history.length>20)pad.history.shift();}
   function point(event,canvas,i){const r=canvas.getBoundingClientRect(),segment=width/parts;return [Math.round((i*segment+Math.max(0,Math.min(1,(event.clientX-r.left)/r.width))*segment)*10)/10,Math.round(Math.max(0,Math.min(1,(event.clientY-r.top)/r.height))*height*10)/10];}
   function near(p,stroke){for(let i=0;i<stroke.length;i++){const a=stroke[i],b=stroke[i+1]||a,dx=b[0]-a[0],dy=b[1]-a[1],u=Math.max(0,Math.min(1,((p[0]-a[0])*dx+(p[1]-a[1])*dy)/(dx*dx+dy*dy||1)));if(Math.hypot(p[0]-a[0]-u*dx,p[1]-a[1]-u*dy)<10)return true;}return false;}
-  function finish(cancel=false){if(!active)return;const a=active;active=null;if(cancel){getState().ink[a.pad.index]=a.pad.history.pop()||[];}else if(a.points?.length)getState().ink[a.pad.index].push(a.points);save();redraw(a.pad);}
+  function finish(cancel=false){if(!active)return;const a=active;active=null;if(cancel){getState().ink[a.pad.index]=a.pad.history.pop()||[];}else if(a.points?.length)getState().ink[a.pad.index].push(a.points);scheduleSave();redraw(a.pad);}
   config.rows.forEach((_,index)=>{
    const section=document.createElement('section');section.className='ink-pad';const heading=document.createElement('div');heading.className='ink-pad-heading';const title=document.createElement('h3'),undo=iconButton('Undo','undo'),toolbar=document.createElement('div');toolbar.className='ink-tools';addTools(toolbar);toolbar.append(undo);heading.append(title,toolbar);section.append(heading);
    const pad={index,title,undo,canvases:[],history:[]};pads.push(pad);
-   undo.onclick=()=>{finish();if(pad.history.length){getState().ink[index]=pad.history.pop();save();redraw(pad);}};
+   undo.onclick=()=>{finish();if(pad.history.length){getState().ink[index]=pad.history.pop();scheduleSave();redraw(pad);}};
    for(let i=0;i<2;i++){
     const canvas=document.createElement('canvas');canvas.className='ink-canvas';canvas.setAttribute('role','img');pad.canvases.push(canvas);section.append(canvas);
-    canvas.onpointerdown=event=>{if(active||event.button!==0)return;event.preventDefault();if(!eraser&&getState().ink[index].length>=maxStrokes){notice.textContent=t('This pad is full. Erase or undo a stroke to keep writing.');return;}notice.textContent='';remember(pad);active={pad,id:event.pointerId,points:eraser?null:[point(event,canvas,i)]};canvas.setPointerCapture(event.pointerId);if(eraser){const p=point(event,canvas,i);getState().ink[index]=getState().ink[index].filter(s=>!near(p,s));}redraw(pad);};
+    canvas.onpointerdown=event=>{if(active||event.button!==0)return;event.preventDefault();clearTimeout(saveTimer);if(!eraser&&getState().ink[index].length>=maxStrokes){notice.textContent=t('This pad is full. Erase or undo a stroke to keep writing.');if(dirty)scheduleSave();return;}notice.textContent='';remember(pad);active={pad,id:event.pointerId,points:eraser?null:[point(event,canvas,i)]};canvas.setPointerCapture(event.pointerId);if(eraser){const p=point(event,canvas,i);getState().ink[index]=getState().ink[index].filter(s=>!near(p,s));}redraw(pad);};
     canvas.onpointermove=event=>{if(!active||active.id!==event.pointerId||active.pad!==pad)return;event.preventDefault();const p=point(event,canvas,i);if(active.points){const last=active.points.at(-1);if(Math.hypot(p[0]-last[0],p[1]-last[1])<.6)return;if(active.points.length>=maxPoints)active.points=active.points.filter((_,j)=>j%2===0);active.points.push(p);}else getState().ink[index]=getState().ink[index].filter(s=>!near(p,s));redraw(pad);};
     canvas.onpointerup=event=>{if(active?.id===event.pointerId)finish();};canvas.onpointercancel=event=>{if(active?.id===event.pointerId)finish(true);};canvas.onlostpointercapture=event=>{if(active?.id===event.pointerId)finish();};
    }host.append(section);
   });
   function refresh(){finish();host.hidden=getState().inputMode!=='write';parts=host.clientWidth>0&&host.clientWidth<600?2:1;labels();pads.forEach(redraw);}
   new ResizeObserver(()=>{if(active)return;refresh();}).observe(host);
-  window.addEventListener('pagehide',()=>finish());document.addEventListener('visibilitychange',()=>{if(document.hidden)finish();});
+  function leave(){finish();flushSave();}
+  window.addEventListener('pagehide',leave);document.addEventListener('visibilitychange',()=>{if(document.hidden)leave();});
   return {refresh,finish};
  }
  window.BlogInk={width,height,normalize,paint,mount};

diff --git a/shared/blog-design.css b/shared/blog-design.css
@@ -105,3 +105,6 @@
  .blog-guided .es-byline{margin:4px 0;gap:4px}
  .blog-guided #blog-avatar{width:44px;height:44px;flex-basis:44px}
 }
+
+/* Prevent iPad long-press selection between handwriting strokes. */
+#blog-handwriting{-webkit-user-select:none;user-select:none;-webkit-touch-callout:none}

diff --git a/myblog/NH6-5/README.md b/myblog/NH6-5/README.md
@@ -43,3 +43,5 @@ Handwriting rows now stay 64 CSS pixels tall, matching TYPE guide positions (16/
 Writing controls use accessible pen, eraser, and undo icon buttons beside each sentence heading. Pen/eraser selection stays synchronized across all pads; undo applies only to its sentence.
 
 The Post panel keeps its heading, Show Help toggle, and avatar/TYPE–WRITE row fixed. Only the sentence area scrolls in either mode.
+
+Handwriting autosave waits for two seconds after the last stroke/undo. Starting another stroke cancels the pending save until the pen lifts again. Leaving or hiding the page flushes pending handwriting. The writing area disables native text selection and touch callouts.
